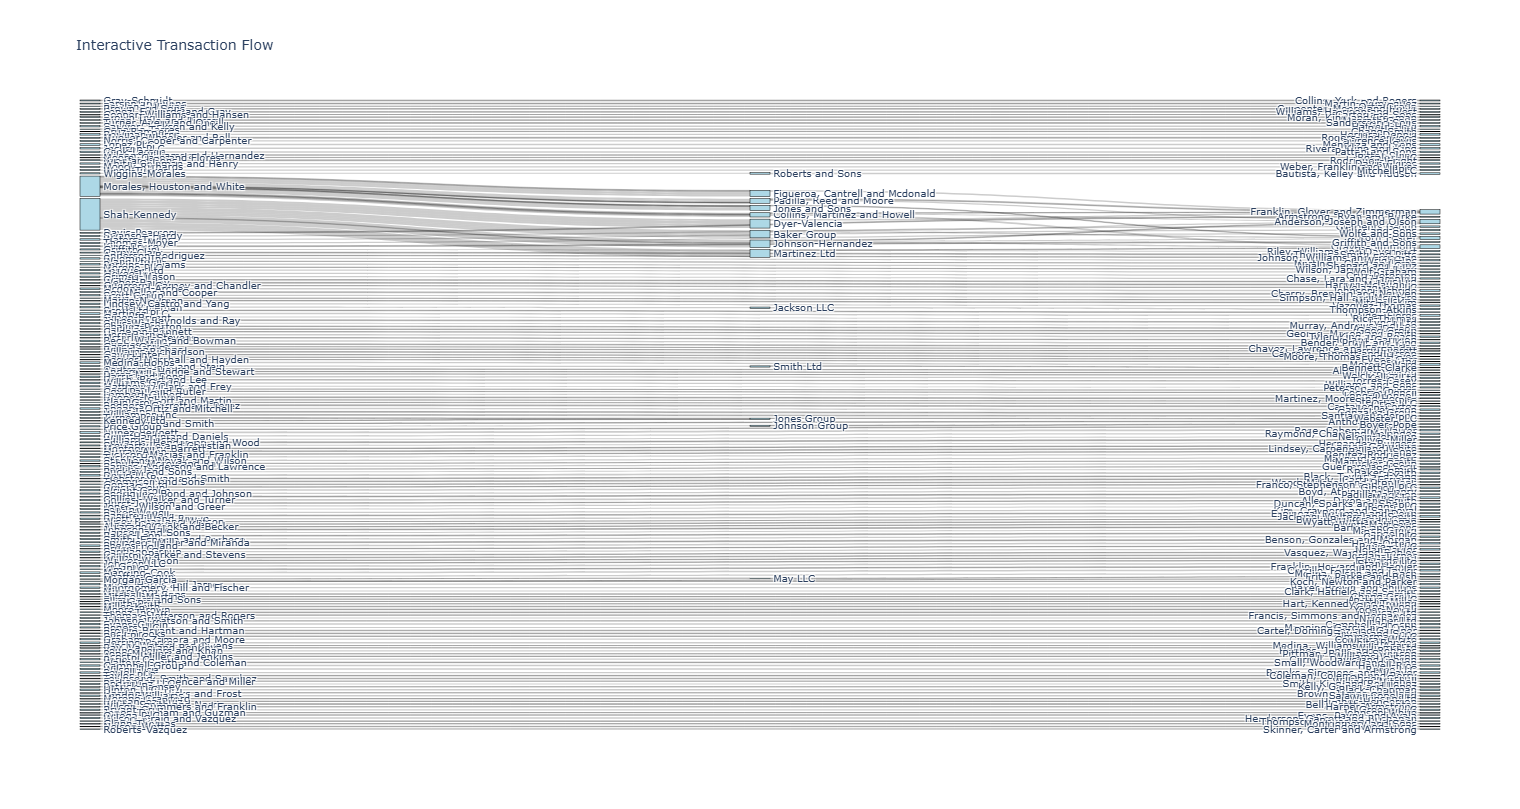
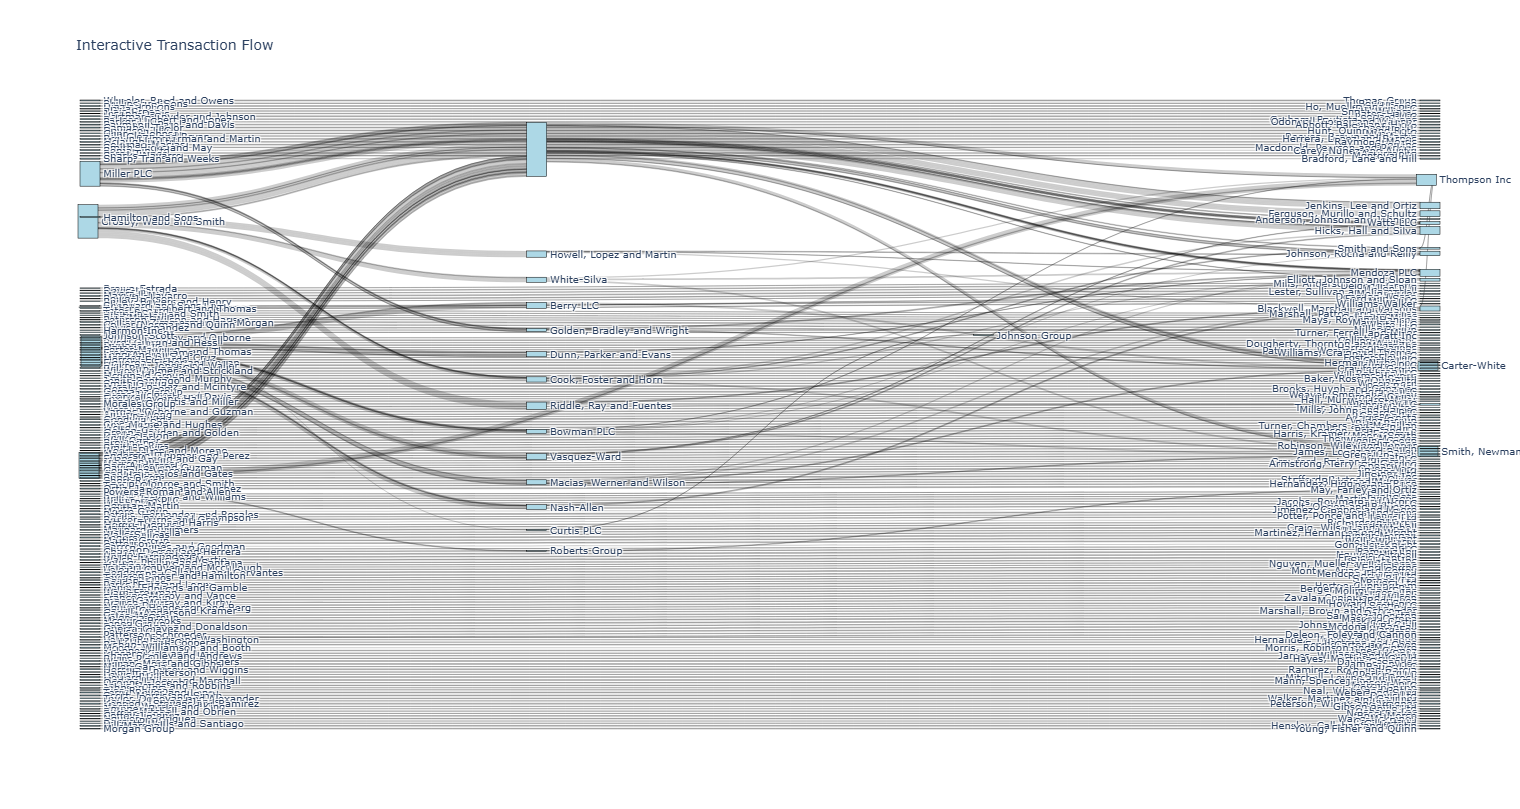
added data generator script

diff --git a/utils/data_generator/generate_data.py b/utils/data_generator/generate_data.py
@@ -6,10 +6,10 @@ from datetime import datetime, timedelta
 fake = Faker()
 
 def generate_synthetic_transactions_with_overlap(
-        num_campaigns=2,
+        num_campaigns=4,
         externals_per_campaign=4,
-        internals_per_campaign=4,
-        beneficiaries_per_campaign=2):
+        internals_per_campaign=6,
+        beneficiaries_per_campaign=3):
     records = []
     base_time = datetime.now()
 
